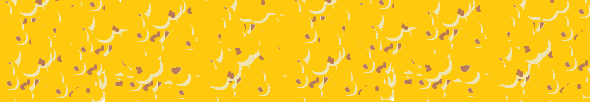
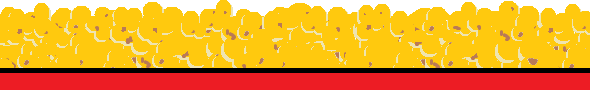
Adds all auditorium routes and views.  Tweaks layout styling.

diff --git a/app/assets/stylesheets/layout.scss b/app/assets/stylesheets/layout.scss
@@ -14,8 +14,14 @@ html {
 	font-family: 'Pacifico', cursive;
 }
 
+table {
+	border: 1px solid black;
+	margin: 20px 0;
+}
+
 th, td {
 	border: 1px solid black;
+	background-color: #FF594F;
 	text-align: center;
 }
 
@@ -24,12 +30,45 @@ h1, h2, h3, h4, li, p {
 	margin: 0;
 }
 
+h1 {
+	font-size: 40px;
+}
+
+h2 {
+	font-size: 30px;
+}
+
 input {
 	display: block;
 }
 
 #errors {
 	color: #FFC90E;
+}
+
+#logo-link {
+	text-decoration: none;
+}
+
+#logo {
+	width: 627px;
+	height: 193px;
+	margin: 50px auto;
+	background-repeat: none;
+	background-image: url('billboard.png');
+}
+
+#title {
+	padding-top: 19px;
+	font-size: 60px;
+	text-align: center;
+	color: black;
+}
+
+#tagline {
+	padding-top: 0px;
+	text-align: center;
+	color: black;
 }
 
 #container {
@@ -106,7 +145,7 @@ input {
 	width: 100%;
 	height: 90px;
 	z-index: 2;
-	background-image: url('popcorn2.png');
+	background-image: url('popcorn.png');
 	background-repeat: repeat-x;
 	background-position: center;
 }
@@ -114,6 +153,16 @@ input {
 #content {
 	padding: 90px 0 0 90px;
 	font-family: 'Pacifico', cursive;
+}
+
+nav {
+	width: auto;
+	text-align: center;
+	font-size: 40px;
+}
+
+nav > a {
+	margin: 0px 40px;
 }
 
 .field_with_errors {

diff --git a/app/assets/stylesheets/movies.scss b/app/assets/stylesheets/movies.scss
@@ -1,3 +1,7 @@
 // Place all the styles related to the movies controller here.
 // They will automatically be included in application.css.
 // You can use Sass (SCSS) here: http://sass-lang.com/
+
+.admin_auditorium_submit {
+	display: inline-block;
+}

diff --git a/app/controllers/auditoria_controller.rb b/app/controllers/auditoria_controller.rb
@@ -1,0 +1,59 @@
+class AuditoriaController < ApplicationController
+
+	def index
+		@auditoria = Auditorium.all
+	end
+
+	def new
+		@auditorium = Auditorium.new
+		render "new"
+	end
+
+	def create
+		@auditorium = Auditorium.new(auditorium_params)
+		if @auditorium.save
+			redirect_to :auditoria
+		else
+			@errors = @auditorium.errors.full_messages
+			render "new"
+		end
+	end
+
+	def edit
+		@auditorium = Auditorium.find_by(id: params[:id])
+		if @auditorium
+			render "edit"
+		else
+			redirect_to :auditoria
+		end
+	end
+
+	def update
+		@auditorium = Auditorium.find_by(id: params[:id])
+		if @auditorium
+			if @auditorium.update_attributes(auditorium_params)
+				redirect_to :auditoria
+			else
+				@errors = @auditorium.errors.full_messages
+				render "edit"
+			end
+		else
+			redirect_to :showtimes
+		end
+	end
+
+	def destroy
+		@auditorium = Auditorium.find_by(id: params[:id])
+		if @auditorium
+			@auditorium.destroy
+			redirect_to :auditoria
+		else
+			redirect_to :root
+		end		
+	end
+
+	def auditorium_params
+    params.require(:auditorium).permit(:name, :capacity)
+  end
+
+end

diff --git a/app/controllers/showtimes_controller.rb b/app/controllers/showtimes_controller.rb
@@ -11,6 +11,8 @@ class ShowtimesController < ApplicationController
 
 	def new
 		@showtime = Showtime.new
+		@movies = Movie.all
+		@auditoria = Auditorium.all
 		render "new"
 	end
 
@@ -26,6 +28,8 @@ class ShowtimesController < ApplicationController
 
 	def edit
 		@showtime = Showtime.find_by(id: params[:id])
+		@movies = Movie.all
+		@auditoria = Auditorium.all
 		if @showtime
 			render "edit"
 		else

diff --git a/app/controllers/movies_controller.rb b/app/controllers/movies_controller.rb
@@ -1,13 +1,17 @@
 class MoviesController < ApplicationController
 
 	def index
+		puts 'vanilla'
 		@movies = Movie.all
-		@as_admin = true
+		@as_admin = false
 	end
 
 	def admin
+		puts 'admin'
 		@movies = Movie.all
+		@auditoria = Auditorium.all
 		@as_admin = true
+		render 'index'
 	end
 
 	def show

diff --git a/config/routes.rb b/config/routes.rb
@@ -1,11 +1,16 @@
 Rails.application.routes.draw do
 
+	get '/movies/admin', to: 'movies#admin'
 	resources :movies 
+	resources :auditoria
 	resources :showtimes do
 		resources :sales, only: [:new, :create]
 	end
 
 	resources :sales, only: [:index, :destroy, :show]
 
+
+
 	root 'movies#index'
+
 end

diff --git a/app/models/showtime.rb b/app/models/showtime.rb
@@ -6,8 +6,8 @@ class Showtime < ApplicationRecord
 	
 	has_many :sales
 
-	belongs_to :movie
-	belongs_to :auditorium
+	belongs_to :movie, dependent: :destroy
+	belongs_to :auditorium, dependent: :destroy
 
 	def is_available?
 		sales.count < auditorium.capacity

diff --git a/app/models/movie.rb b/app/models/movie.rb
@@ -6,7 +6,7 @@ class Movie < ApplicationRecord
 	# t.decimal :cost
 	
 	has_many :showtimes
-	has_many :auditoriums, through: :showtimes
+	has_many :auditoria, through: :showtimes
 	has_many :sales, through: :showtimes
 
 	validates :title, presence: :true

diff --git a/test/controllers/auditoriums_controller_test.rb b/test/controllers/auditoriums_controller_test.rb
@@ -1,6 +1,6 @@
 require 'test_helper'
 
-class AuditoriumsControllerTest < ActionDispatch::IntegrationTest
+class AuditoriaControllerTest < ActionDispatch::IntegrationTest
   # test "the truth" do
   #   assert true
   # end

diff --git a/app/helpers/auditoria_helper.rb b/app/helpers/auditoria_helper.rb
@@ -1,0 +1,2 @@
+module AuditoriaHelper
+end
